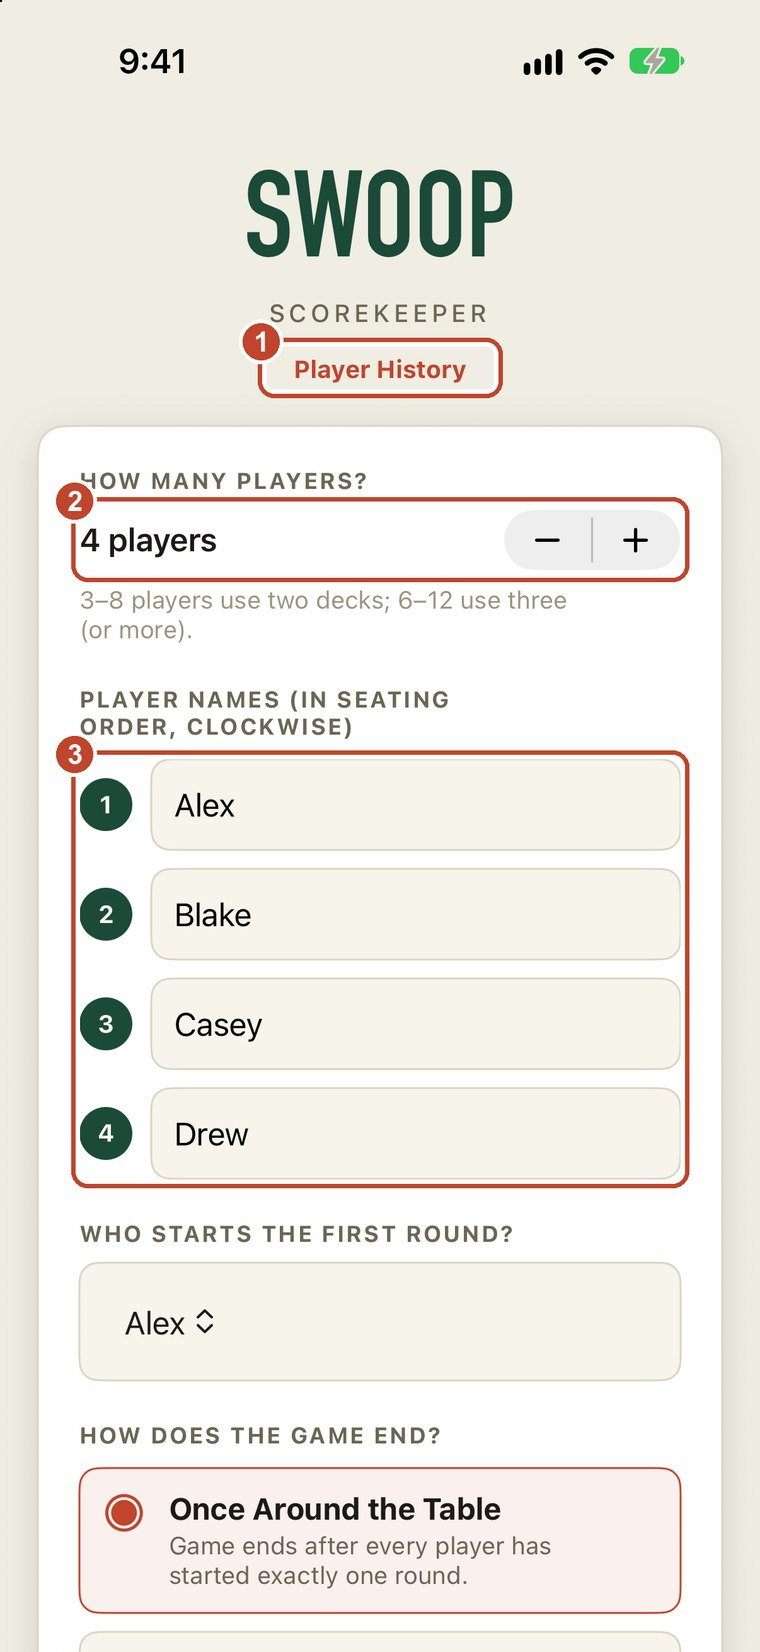
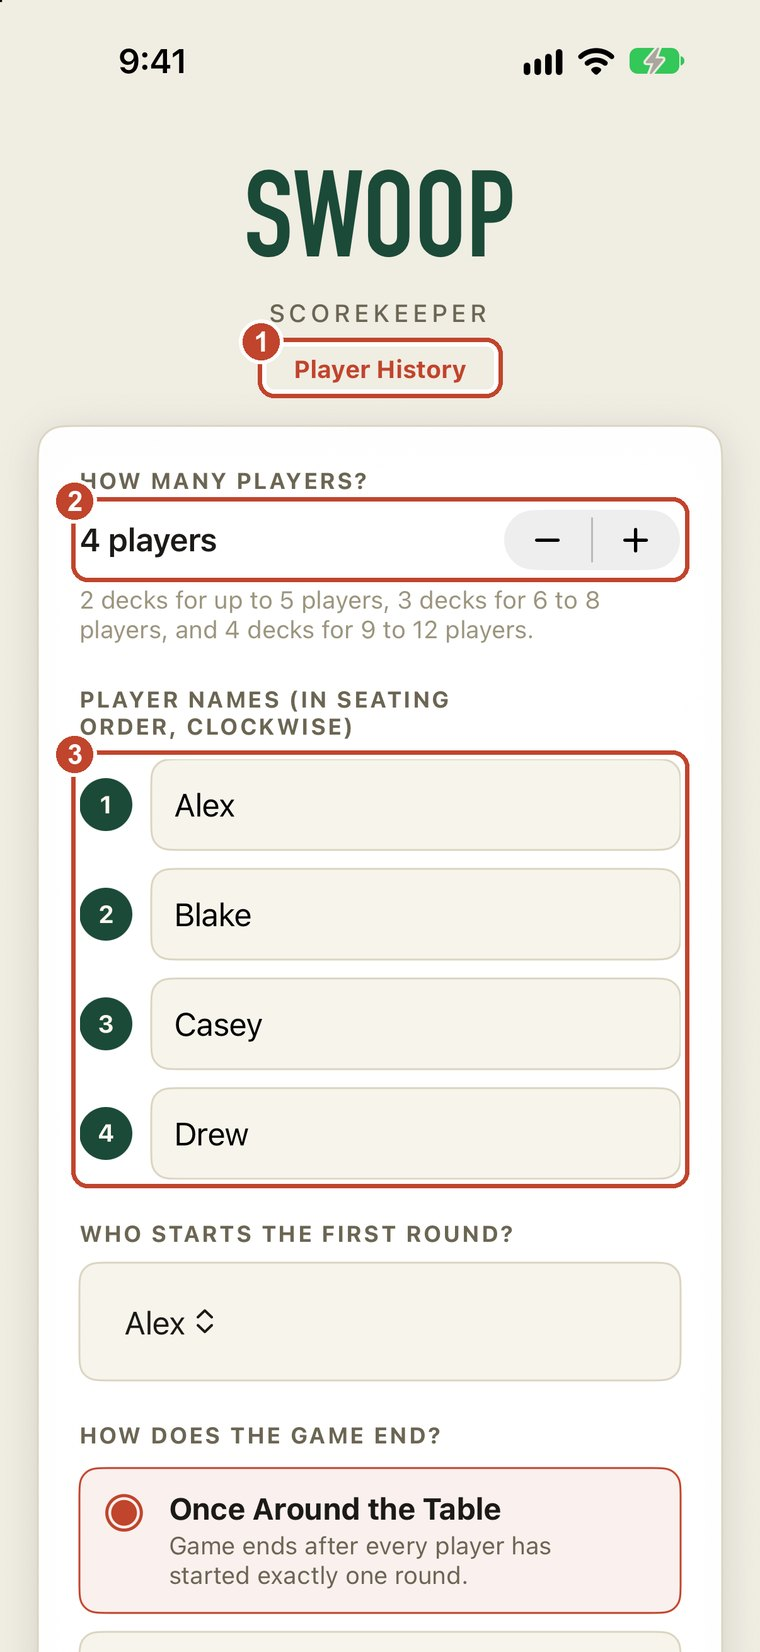
Correct deck counts: 2 decks up to 5 players, 3 for 6-8, 4 for 9-12; refresh guide screenshot and example hand

Changed region(s): [[0.0908, 0.3396, 0.4842, 0.4013], [0.5145, 0.3396, 0.7868, 0.4013], [0.4842, 0.3705, 0.5145, 0.4013]]

diff --git a/index.html b/index.html
@@ -968,7 +968,7 @@
         <div class="field-group">
           <label class="field-label" for="input-player-count">How many players?</label>
           <input type="tel" inputmode="numeric" pattern="[0-9]*" id="input-player-count" value="4">
-          <div class="hint">3–8 players use two decks; 6–12 use three (or more).</div>
+          <div class="hint">2 decks for up to 5 players, 3 decks for 6 to 8 players, and 4 decks for 9 to 12 players.</div>
         </div>
 
         <div class="field-group">
@@ -1047,12 +1047,12 @@
 <section class="guide-section" id="guide-scoring"><h2 class="display">How scoring works</h2>
 <p>When a round ends, the player who went out first (the round winner) scores 0. Every other player adds up the points on all of the cards they still hold: cards in their Hand, cards on their Board, and any face-down Mystery cards.</p>
 <ul class="guide-list"><li>Number cards 1 through 9: 5 points each</li><li>Number cards 10, 11 and 12: 10 points each</li><li>SWOOP cards: 50 points each</li></ul>
-<div class="guide-tip"><span aria-hidden="true">&#128161;</span><span>Example: a player is left holding a 10, a 5, two 8s, a SWOOP card and an 11. That is 10 + 5 + 5 + 5 + 50 + 10 = 85 points. That player enters 85.</span></div>
+<div class="guide-tip"><span aria-hidden="true">&#128161;</span><span>Example: a player is left holding a 12, a 7, a 4 and a SWOOP card. That is 10 + 5 + 5 + 50 = 70 points. That player enters 70.</span></div>
 <p>Each round&#x27;s points are added to every player&#x27;s running total. When the game ends, the lowest total wins.</p>
 </section>
 <section class="guide-section" id="guide-start"><h2 class="display">Step 1: Start a game</h2>
 <p>Everything begins on the home screen. Fill in the form from top to bottom, then tap Start Game.</p>
-<figure class="guide-figure"><div class="guide-shot"><img src="guide/guide-01-setup-top.jpg" alt="The top of the home screen" loading="lazy"><figcaption>The top of the home screen</figcaption></div><ol class="guide-callouts"><li>Player History: opens the win and loss record for everyone who has finished a game (see &quot;Player History&quot; below).</li><li>How many players? Use the minus and plus buttons to choose from 2 to 12 players.</li><li>Player names: type one name per seat, in seating order going clockwise around the table. Each name is capitalized for you.</li></ol></figure>
+<figure class="guide-figure"><div class="guide-shot"><img src="guide/guide-01-setup-top.jpg" alt="The top of the home screen" loading="lazy"><figcaption>The top of the home screen</figcaption></div><ol class="guide-callouts"><li>Player History: opens the win and loss record for everyone who has finished a game (see &quot;Player History&quot; below).</li><li>How many players? Use the minus and plus buttons to choose the number of players. The note under it tells you how many decks to use: 2 decks for up to 5 players, 3 decks for 6 to 8 players, and 4 decks for 9 to 12 players.</li><li>Player names: type one name per seat, in seating order going clockwise around the table. Each name is capitalized for you.</li></ol></figure>
 <ul class="guide-list"><li>Every player needs a name, and no two names can be the same.</li><li>Spell each person&#x27;s name the same way every game. Player History matches people by name (capital letters don&#x27;t matter).</li></ul>
 <figure class="guide-figure"><div class="guide-shot"><img src="guide/guide-02-setup-bottom.jpg" alt="The bottom of the home screen" loading="lazy"><figcaption>The bottom of the home screen</figcaption></div><ol class="guide-callouts"><li>Who starts the first round? Pick whoever goes first at your table. The rules simply say to select a player, so use whatever method you like. If you haven&#x27;t decided yet, leave it for now. You can change it on the game screen before round 1.</li><li>How does the game end? Choose one of three ways (explained below).</li><li>Start Game: begins the game. If something is missing you&#x27;ll see a red message telling you what to fix.</li><li>How to use this app: opens this guide. Once a game is running, the small ? button at the top of the game screen opens it too.</li></ol></figure>
 <p>The three ways a game can end:</p>

diff --git a/swoop-scorekeeper.html b/swoop-scorekeeper.html
@@ -968,7 +968,7 @@
         <div class="field-group">
           <label class="field-label" for="input-player-count">How many players?</label>
           <input type="tel" inputmode="numeric" pattern="[0-9]*" id="input-player-count" value="4">
-          <div class="hint">3–8 players use two decks; 6–12 use three (or more).</div>
+          <div class="hint">2 decks for up to 5 players, 3 decks for 6 to 8 players, and 4 decks for 9 to 12 players.</div>
         </div>
 
         <div class="field-group">
@@ -1047,12 +1047,12 @@
 <section class="guide-section" id="guide-scoring"><h2 class="display">How scoring works</h2>
 <p>When a round ends, the player who went out first (the round winner) scores 0. Every other player adds up the points on all of the cards they still hold: cards in their Hand, cards on their Board, and any face-down Mystery cards.</p>
 <ul class="guide-list"><li>Number cards 1 through 9: 5 points each</li><li>Number cards 10, 11 and 12: 10 points each</li><li>SWOOP cards: 50 points each</li></ul>
-<div class="guide-tip"><span aria-hidden="true">&#128161;</span><span>Example: a player is left holding a 10, a 5, two 8s, a SWOOP card and an 11. That is 10 + 5 + 5 + 5 + 50 + 10 = 85 points. That player enters 85.</span></div>
+<div class="guide-tip"><span aria-hidden="true">&#128161;</span><span>Example: a player is left holding a 12, a 7, a 4 and a SWOOP card. That is 10 + 5 + 5 + 50 = 70 points. That player enters 70.</span></div>
 <p>Each round&#x27;s points are added to every player&#x27;s running total. When the game ends, the lowest total wins.</p>
 </section>
 <section class="guide-section" id="guide-start"><h2 class="display">Step 1: Start a game</h2>
 <p>Everything begins on the home screen. Fill in the form from top to bottom, then tap Start Game.</p>
-<figure class="guide-figure"><div class="guide-shot"><img src="guide/guide-01-setup-top.jpg" alt="The top of the home screen" loading="lazy"><figcaption>The top of the home screen</figcaption></div><ol class="guide-callouts"><li>Player History: opens the win and loss record for everyone who has finished a game (see &quot;Player History&quot; below).</li><li>How many players? Use the minus and plus buttons to choose from 2 to 12 players.</li><li>Player names: type one name per seat, in seating order going clockwise around the table. Each name is capitalized for you.</li></ol></figure>
+<figure class="guide-figure"><div class="guide-shot"><img src="guide/guide-01-setup-top.jpg" alt="The top of the home screen" loading="lazy"><figcaption>The top of the home screen</figcaption></div><ol class="guide-callouts"><li>Player History: opens the win and loss record for everyone who has finished a game (see &quot;Player History&quot; below).</li><li>How many players? Use the minus and plus buttons to choose the number of players. The note under it tells you how many decks to use: 2 decks for up to 5 players, 3 decks for 6 to 8 players, and 4 decks for 9 to 12 players.</li><li>Player names: type one name per seat, in seating order going clockwise around the table. Each name is capitalized for you.</li></ol></figure>
 <ul class="guide-list"><li>Every player needs a name, and no two names can be the same.</li><li>Spell each person&#x27;s name the same way every game. Player History matches people by name (capital letters don&#x27;t matter).</li></ul>
 <figure class="guide-figure"><div class="guide-shot"><img src="guide/guide-02-setup-bottom.jpg" alt="The bottom of the home screen" loading="lazy"><figcaption>The bottom of the home screen</figcaption></div><ol class="guide-callouts"><li>Who starts the first round? Pick whoever goes first at your table. The rules simply say to select a player, so use whatever method you like. If you haven&#x27;t decided yet, leave it for now. You can change it on the game screen before round 1.</li><li>How does the game end? Choose one of three ways (explained below).</li><li>Start Game: begins the game. If something is missing you&#x27;ll see a red message telling you what to fix.</li><li>How to use this app: opens this guide. Once a game is running, the small ? button at the top of the game screen opens it too.</li></ol></figure>
 <p>The three ways a game can end:</p>
